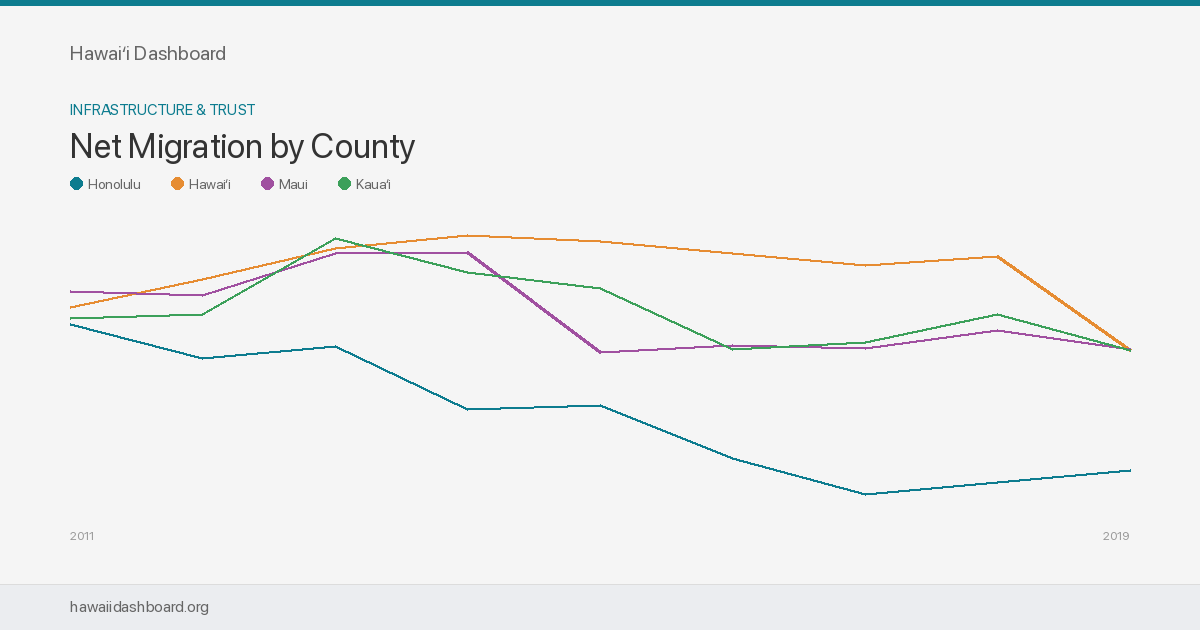
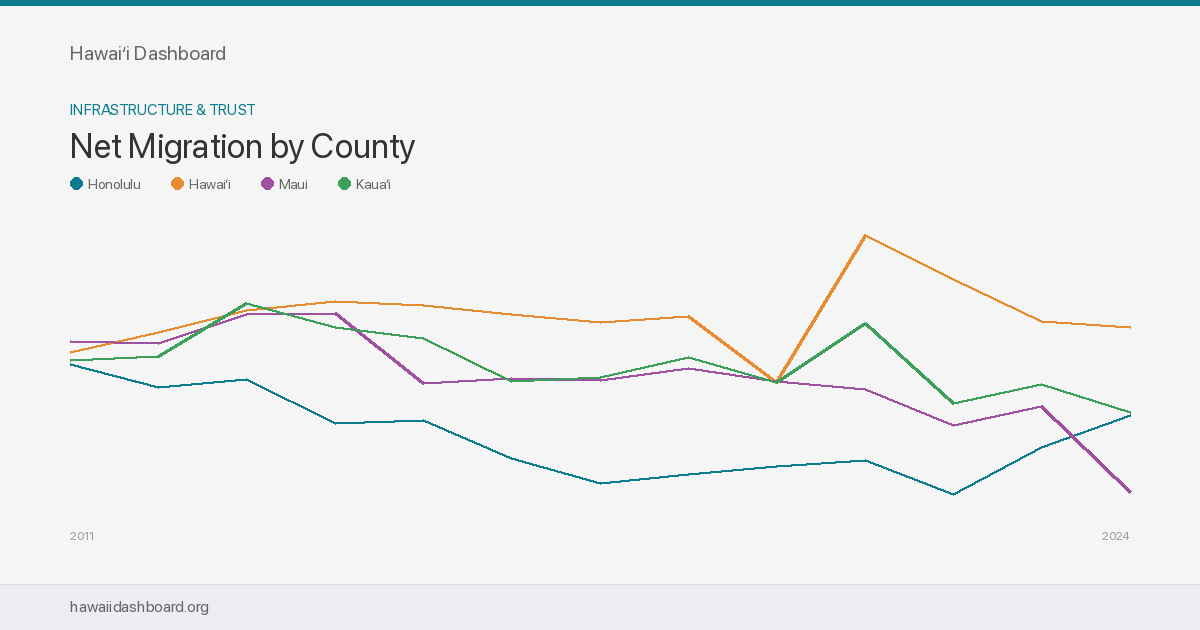
qotd q065: claim text update + restore 2020-2024 county migration data
Two fixes:

1. q065 claim rewritten "Of all counties, Honolulu is losing the fewest
   residents." -> "...the fewest residents to immigration." per user
   editorial direction.

2. Restored 2021-2024 county-level net_domestic_migration_rate, which
   had silently regressed to 2019 cutoff in the May 2026 data refresh.

Root cause: Census deprecated the 2019-vintage PEP components API after
the 2019 vintage. build-state-data.js was updated to dual-source from
the 2024-vintage NST CSV for 2021-2024, but build-county-data.js was
not. The May 2026 refresh ran the stale build script and overwrote
the previously hand-pasted 2020-2024 county series with 2011-2019 only.
The c/net_domestic_migration_rate/ landing page table ("By county")
and the modal chart on /#net_domestic_migration_rate/county both
truncated to 2019, even though the QOTD q065 answer cites the 2024
numbers (+29.9 / -69.1) that originally lived in the data.

Future-proofing: build-county-data.js now mirrors the state pattern,
dual-sourcing from the 2024-vintage CO-EST CSV
(co-est2024-alldata.csv, RDOMESTICMIG{year} columns × 10) for 2021+.
2020 stays absent (decennial base year, no rate published; matches
state behavior). Section 15 of validate-data.js already enforces a
2-year max lag between state and county series and now reports
0 lag warnings on this metric — the same gate would have caught
this regression had it fired in May.

Side effect: build-county-data.js end-to-end is currently blocked
[…]

diff --git a/scripts/build-county-data.js b/scripts/build-county-data.js
@@ -111,6 +111,28 @@ async function fetchJSON(url) {
 
 function sleep(ms) { return new Promise(r => setTimeout(r, ms)); }
 
+// Minimal RFC-4180 CSV row parser (handles quoted fields). Mirrors the helper
+// in build-state-data.js; kept inline here because the two scripts have no
+// shared utility module.
+function parseCsvRow(line) {
+    const cells = [];
+    let cur = '';
+    let inQuote = false;
+    for (let i = 0; i < line.length; i++) {
+        const c = line[i];
+        if (c === '"') {
+            inQuote = !inQuote;
+        } else if (c === ',' && !inQuote) {
+            cells.push(cur);
+            cur = '';
+        } else {
+            cur += c;
+        }
+    }
+    cells.push(cur);
+    return cells;
+}
+
 /** Parse Census ACS county response into { countyName: value } */
 function parseCensusCounty(json, computeFn) {
     const headers = json[0];
@@ -397,12 +419,21 @@ async function fetchPerCapitaIncome() {
 // Census PEP Fetcher (Net Domestic Migration Rate)
 // ===========================================================
 
+// Two source endpoints because Census deprecated the PEP components API after
+// vintage 2019. For 2011-2019 we use the 2019 vintage components API
+// (PERIOD_CODE 2..10 → calendar 2011..2019). For 2021-2024 we read the
+// CO-EST2024-ALLDATA bulk CSV (RDOMESTICMIG{year} columns). 2020 is not
+// published (decennial base year gap). Mirrors the state-level fetcher in
+// build-state-data.js — keep the two in sync when Census ships a new vintage.
+const PEP_2024_COEST_URL = 'https://www2.census.gov/programs-surveys/popest/datasets'
+    + '/2020-2024/counties/totals/co-est2024-alldata.csv';
+
 async function fetchNetDomesticMigration() {
     console.log('Fetching: Net domestic migration rate (Census PEP)...');
     const byCounty = {};
     COUNTY_ORDER.forEach(c => { byCounty[c] = {}; });
 
-    // PEP 2019 vintage: components endpoint uses PERIOD_CODE (not DATE_CODE)
+    // 1) 2019 vintage components API for 2011-2019
     // PERIOD_CODE 2=2011, 3=2012, ..., 10=2019 (fiscal year periods)
     // Population from charagegroups uses DATE_CODE: year = 2008 + dateCode
     try {
@@ -441,11 +472,51 @@ async function fetchNetDomesticMigration() {
             await sleep(200);
         }
     } catch (err) {
-        console.log(`  Error: ${err.message}`);
+        console.log(`  WARN 2019 vintage fetch failed: ${err.message}`);
+    }
+
+    // 2) 2024 vintage CO-EST CSV for 2021-2024 (no 2020 rate per Census methodology)
+    // Rate columns RDOMESTICMIG{year} are per 1,000 mid-year residents; we
+    // multiply by 10 to match the dashboard's per-10,000 unit.
+    try {
+        const r = await fetch(PEP_2024_COEST_URL, {
+            headers: { 'User-Agent': 'Mozilla/5.0 hawaii-dashboard data refresh' },
+        });
+        if (!r.ok) throw new Error(`HTTP ${r.status}`);
+        const text = await r.text();
+        const lines = text.split(/\r?\n/).filter(l => l.trim().length > 0);
+        const head = parseCsvRow(lines[0]);
+        const sumlevIdx = head.indexOf('SUMLEV');
+        const stateIdx = head.indexOf('STATE');
+        const countyIdx = head.indexOf('COUNTY');
+        const rateIdxByYear = {};
+        for (const yr of ['2021', '2022', '2023', '2024']) {
+            rateIdxByYear[yr] = head.indexOf(`RDOMESTICMIG${yr}`);
+        }
+        if (sumlevIdx < 0 || stateIdx < 0 || countyIdx < 0 || Object.values(rateIdxByYear).some(i => i < 0)) {
+            throw new Error('headers missing in CO-EST CSV');
+        }
+        let pts = 0;
+        for (const line of lines.slice(1)) {
+            const cells = parseCsvRow(line);
+            if (cells[sumlevIdx] !== '050') continue; // 050 = county row; skip state aggregate
+            if (cells[stateIdx] !== '15') continue;   // Hawaii only
+            const countyName = COUNTY_FIPS[cells[countyIdx]];
+            if (!countyName) continue;                // skip Kalawao (005)
+            for (const [yr, ri] of Object.entries(rateIdxByYear)) {
+                const rate = parseFloat(cells[ri]);
+                if (!isFinite(rate)) continue;
+                byCounty[countyName][yr] = parseFloat((rate * 10).toFixed(1));
+                pts++;
+            }
+        }
+        console.log(`  2024 vintage CO-EST CSV (2021-2024): ${pts} county-year cells`);
+    } catch (err) {
+        console.log(`  WARN 2024 vintage fetch failed: ${err.message}`);
     }
 
     const totalPoints = Object.values(byCounty).reduce((s, d) => s + Object.keys(d).length, 0);
-    console.log(` -> ${totalPoints} data points`);
+    console.log(`  -> ${totalPoints} data points`);
     return totalPoints > 0 ? byCounty : null;
 }
 

diff --git a/q/q065/index.html b/q/q065/index.html
@@ -13,7 +13,7 @@
   <meta name="twitter:card" content="summary_large_image">
   <meta name="twitter:title" content="You know Hawaiʻi?">
   <meta name="twitter:image" content="https://hawaiidashboard.org/assets/og/q/of-all-counties-honolulu-is-losing-the-fewest-residents.png">
-  <meta name="description" content="Of all counties, Honolulu is losing the fewest residents.">
+  <meta name="description" content="Of all counties, Honolulu is losing the fewest residents to immigration.">
   <link rel="canonical" href="https://hawaiidashboard.org/q/q065/">
   <script>window.location.replace("/?from_q=q065");</script>
   <meta http-equiv="refresh" content="0;url=https://hawaiidashboard.org/?from_q=q065">
@@ -22,7 +22,7 @@
   <p>Redirecting to <a href="https://hawaiidashboard.org/?from_q=q065">You know Hawaiʻi?</a>&hellip;</p>
   <article style="max-width:640px;margin:2rem auto;padding:0 1rem;font-family:-apple-system,BlinkMacSystemFont,'Segoe UI',sans-serif;color:#333;line-height:1.55;">
     <p style="color:#888;font-size:0.875rem;text-transform:uppercase;letter-spacing:0.05em;margin:0;">You know Hawaiʻi?</p>
-    <p style="margin:0.25rem 0 1rem;font-size:1.25rem;font-weight:600;">Of all counties, Honolulu is losing the fewest residents.</p>
+    <p style="margin:0.25rem 0 1rem;font-size:1.25rem;font-weight:600;">Of all counties, Honolulu is losing the fewest residents to immigration.</p>
     <p><strong>False.</strong> In 2024, Hawaiʻi County was the only county gaining residents at +29.9 per 10K; Honolulu lost 69.1 per 10K.</p>
     <p style="margin-top:1.5rem;"><a href="/c/net_domestic_migration_rate/">See the data &rarr;</a></p>
   </article>

diff --git a/js/county-data.js b/js/county-data.js
@@ -74,10 +74,10 @@ const COUNTY_DATA = {
   "net_domestic_migration_rate": {
     "counties": ["Honolulu","Hawaiʻi","Maui","Kauaʻi"],
     "data": {
-      "Honolulu": {"2011":-11.6,"2012":-38.1,"2013":-28.5,"2014":-78.9,"2015":-75.4,"2016":-117.7,"2017":-145.8,"2018":-136.5,"2019":-126.8},
-      "Hawaiʻi": {"2011":2.1,"2012":24.5,"2013":49.1,"2014":58.9,"2015":54.8,"2016":45.1,"2017":35.5,"2018":42.5,"2019":-31.9},
-      "Maui": {"2011":14.6,"2012":12,"2013":44.6,"2014":45.9,"2015":-33.7,"2016":-27.8,"2017":-30.2,"2018":-15.9,"2019":-31},
-      "Kauaʻi": {"2011":-7,"2012":-3.2,"2013":56.5,"2014":29.6,"2015":17.1,"2016":-31.4,"2017":-26,"2018":-3.6,"2019":-31.9}
+      "Honolulu": {"2011":-11.6,"2012":-38.1,"2013":-28.5,"2014":-78.9,"2015":-75.4,"2016":-117.7,"2017":-145.8,"2018":-136.5,"2019":-126.8,"2021":-120.2,"2022":-158.2,"2023":-106,"2024":-69.1},
+      "Hawaiʻi": {"2011":2.1,"2012":24.5,"2013":49.1,"2014":58.9,"2015":54.8,"2016":45.1,"2017":35.5,"2018":42.5,"2019":-31.9,"2021":133.4,"2022":83.6,"2023":36.4,"2024":29.9},
+      "Maui": {"2011":14.6,"2012":12,"2013":44.6,"2014":45.9,"2015":-33.7,"2016":-27.8,"2017":-30.2,"2018":-15.9,"2019":-31,"2021":-40.5,"2022":-80.2,"2023":-59.5,"2024":-156.3},
+      "Kauaʻi": {"2011":-7,"2012":-3.2,"2013":56.5,"2014":29.6,"2015":17.1,"2016":-31.4,"2017":-26,"2018":-3.6,"2019":-31.9,"2021":34.5,"2022":-55.7,"2023":-34.8,"2024":-66}
     }
   },
   "estabs_entry_rate": {

diff --git a/c/net_domestic_migration_rate/index.html b/c/net_domestic_migration_rate/index.html
@@ -143,10 +143,10 @@
     <p class="lede">Hawaii’s net migration was <strong>-64.6 per 10K in 2024</strong>, the <strong>highest in the nation</strong> (50-state rank: #50).</p>
 
     <a class="cta-primary" href="/#net_domestic_migration_rate/county">View interactive chart &rarr;</a>
-    <h2>By county (2019)</h2>
+    <h2>By county (2024)</h2>
     <table>
       <thead><tr><th>County</th><th class="num">Net Migration</th></tr></thead>
-      <tbody><tr><td>Honolulu</td><td class="num">-126.8</td></tr><tr><td>Hawaiʻi</td><td class="num">-31.9</td></tr><tr><td>Maui</td><td class="num">-31.0</td></tr><tr><td>Kauaʻi</td><td class="num">-31.9</td></tr></tbody>
+      <tbody><tr><td>Honolulu</td><td class="num">-69.1</td></tr><tr><td>Hawaiʻi</td><td class="num">29.9</td></tr><tr><td>Maui</td><td class="num">-156.3</td></tr><tr><td>Kauaʻi</td><td class="num">-66.0</td></tr></tbody>
     </table>
     <h2>Recent state trend</h2>
     <table>

diff --git a/index.html b/index.html
@@ -361,7 +361,7 @@
     <script src="js/utils.js?v=20260515a"></script>
     <script src="js/data.js?v=20260515a"></script>
     <script src="js/state-data.js?v=20260515a"></script>
-    <script src="js/county-data.js?v=20260515a"></script>
+    <script src="js/county-data.js?v=20260530a"></script>
     <script src="js/compute.js?v=20260515a"></script>
     <script src="js/charts.js?v=20260515a"></script>
     <script src="js/bundles.js?v=20260515a"></script>
@@ -369,7 +369,7 @@
     <script src="js/export.js?v=20260515a"></script>
     <script src="js/share-menu.js?v=20260527a"></script>
     <script src="js/modal.js?v=20260518a"></script>
-    <script src="js/questions.js?v=20260529a"></script>
+    <script src="js/questions.js?v=20260530a"></script>
     <script src="js/qotd.js?v=20260518a"></script>
     <script src="js/app.js?v=20260515a"></script>
 </body>

diff --git a/js/questions.js b/js/questions.js
@@ -527,7 +527,7 @@ const QOTD_QUESTIONS = [
   {
       "id": "q065",
       "slug": "of-all-counties-honolulu-is-losing-the-fewest-residents",
-      "claim": "Of all counties, Honolulu is losing the fewest residents.",
+      "claim": "Of all counties, Honolulu is losing the fewest residents to immigration.",
       "correct": false,
       "answer": "In 2024, Hawaiʻi County was the only county gaining residents at +29.9 per 10K; Honolulu lost 69.1 per 10K.",
       "chartUrl": "/c/net_domestic_migration_rate/",
